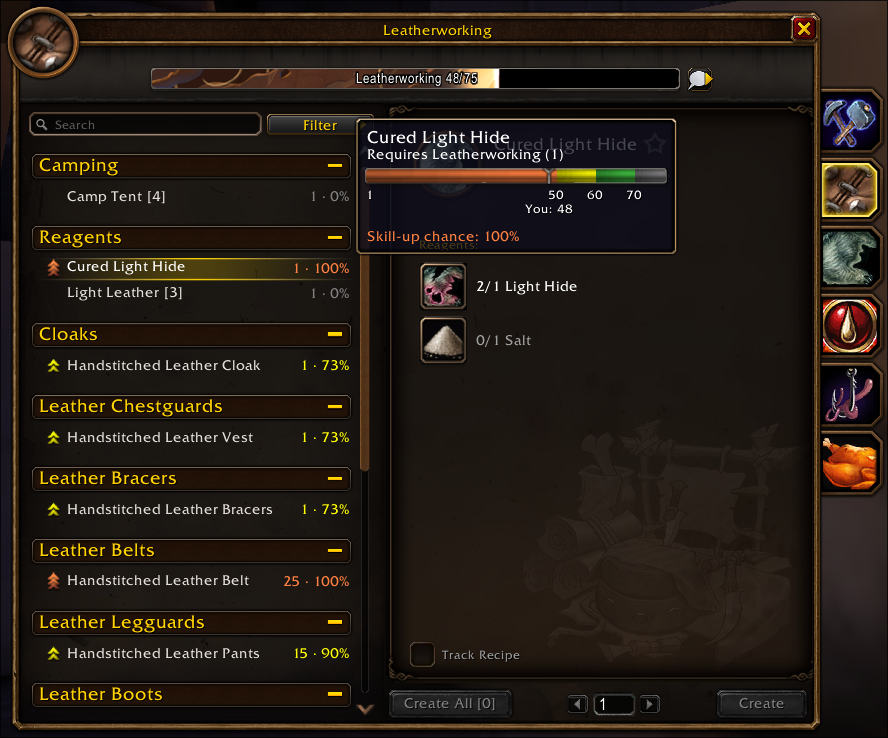
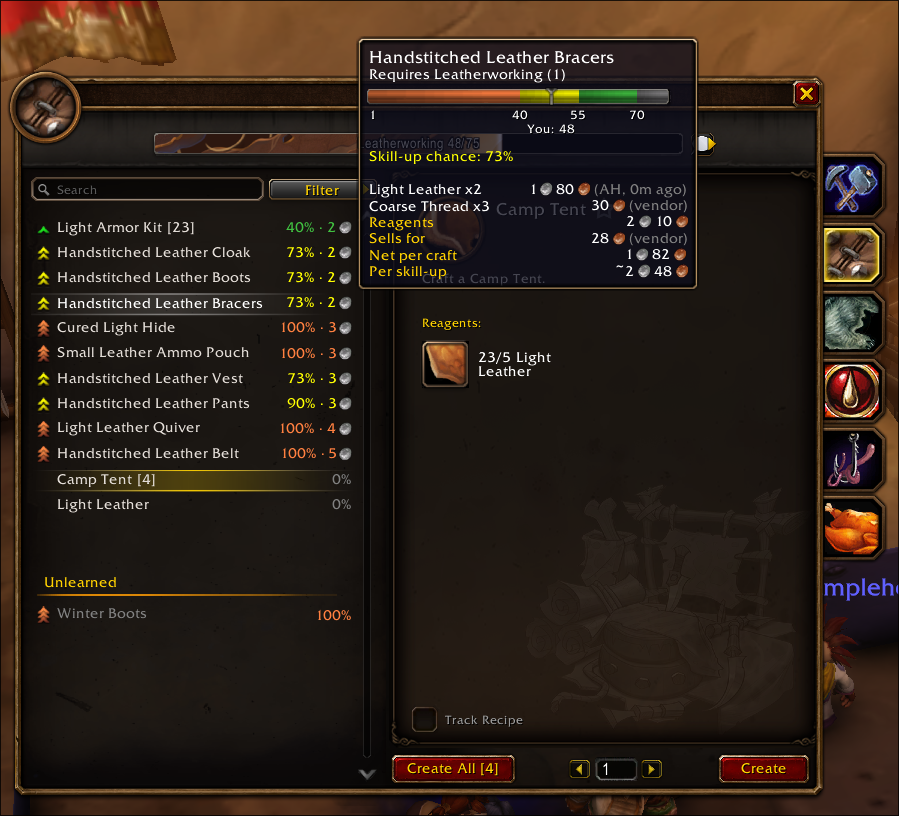
docs: v0.2.0 screenshots
The screenshots still showed the v0.1 UI (skill and chance only). Replace
them with the v0.2.0 window, which shows skill-up chance and cost per
skill-up on each row and a tooltip with reagent prices and cost per
skill-up, and update the alt text to match. Drop recipe-list.png, which
nothing referenced.

Claude-Session: https://claude.ai/code/session_01NkBA9qHPduPBVSQJPvFsy4

diff --git a/README.md b/README.md
@@ -10,7 +10,7 @@ Classic profession-levelling numbers inside WoW: Forever's Professions window.<b
 
 WoW: Forever runs Classic content in the modern Professions window. That window shows a recipe's colour, but not the skill it needs, when it turns yellow, green or grey, or how likely your next craft is to give a skill-up. This addon adds that information to the existing window. It does not open a separate frame.
 
-<p align="center"><img src="https://raw.githubusercontent.com/cjber/skillup-forever/main/docs/screenshots/window.png" width="640" alt="The Leatherworking window with skill and skill-up chance on each recipe row, and the threshold tooltip"></p>
+<p align="center"><img src="https://raw.githubusercontent.com/cjber/skillup-forever/main/docs/screenshots/window.png" width="640" alt="The Leatherworking window with skill-up chance and cost per skill-up on each recipe row, and a tooltip showing reagent prices and cost per skill-up"></p>
 
 ## Features
 

diff --git a/docs/curseforge.md b/docs/curseforge.md
@@ -1,8 +1,8 @@
 WoW: Forever runs Classic content in the modern Professions window. That window shows a recipe's colour, but not the skill it needs, when it turns yellow, green or grey, or how likely your next craft is to give a skill-up. SkillUp Forever adds that information to the existing window. It does not open a separate frame.
 
-![The Leatherworking window with skill and chance on each row](https://raw.githubusercontent.com/cjber/skillup-forever/main/docs/screenshots/window.png)
+![The Leatherworking window with skill-up chance and cost per skill-up on each row](https://raw.githubusercontent.com/cjber/skillup-forever/main/docs/screenshots/window.png)
 
-![Threshold tooltip](https://raw.githubusercontent.com/cjber/skillup-forever/main/docs/screenshots/tooltip.png)
+![Recipe tooltip with thresholds, reagent prices and cost per skill-up](https://raw.githubusercontent.com/cjber/skillup-forever/main/docs/screenshots/tooltip.png)
 
 ## Features
 
